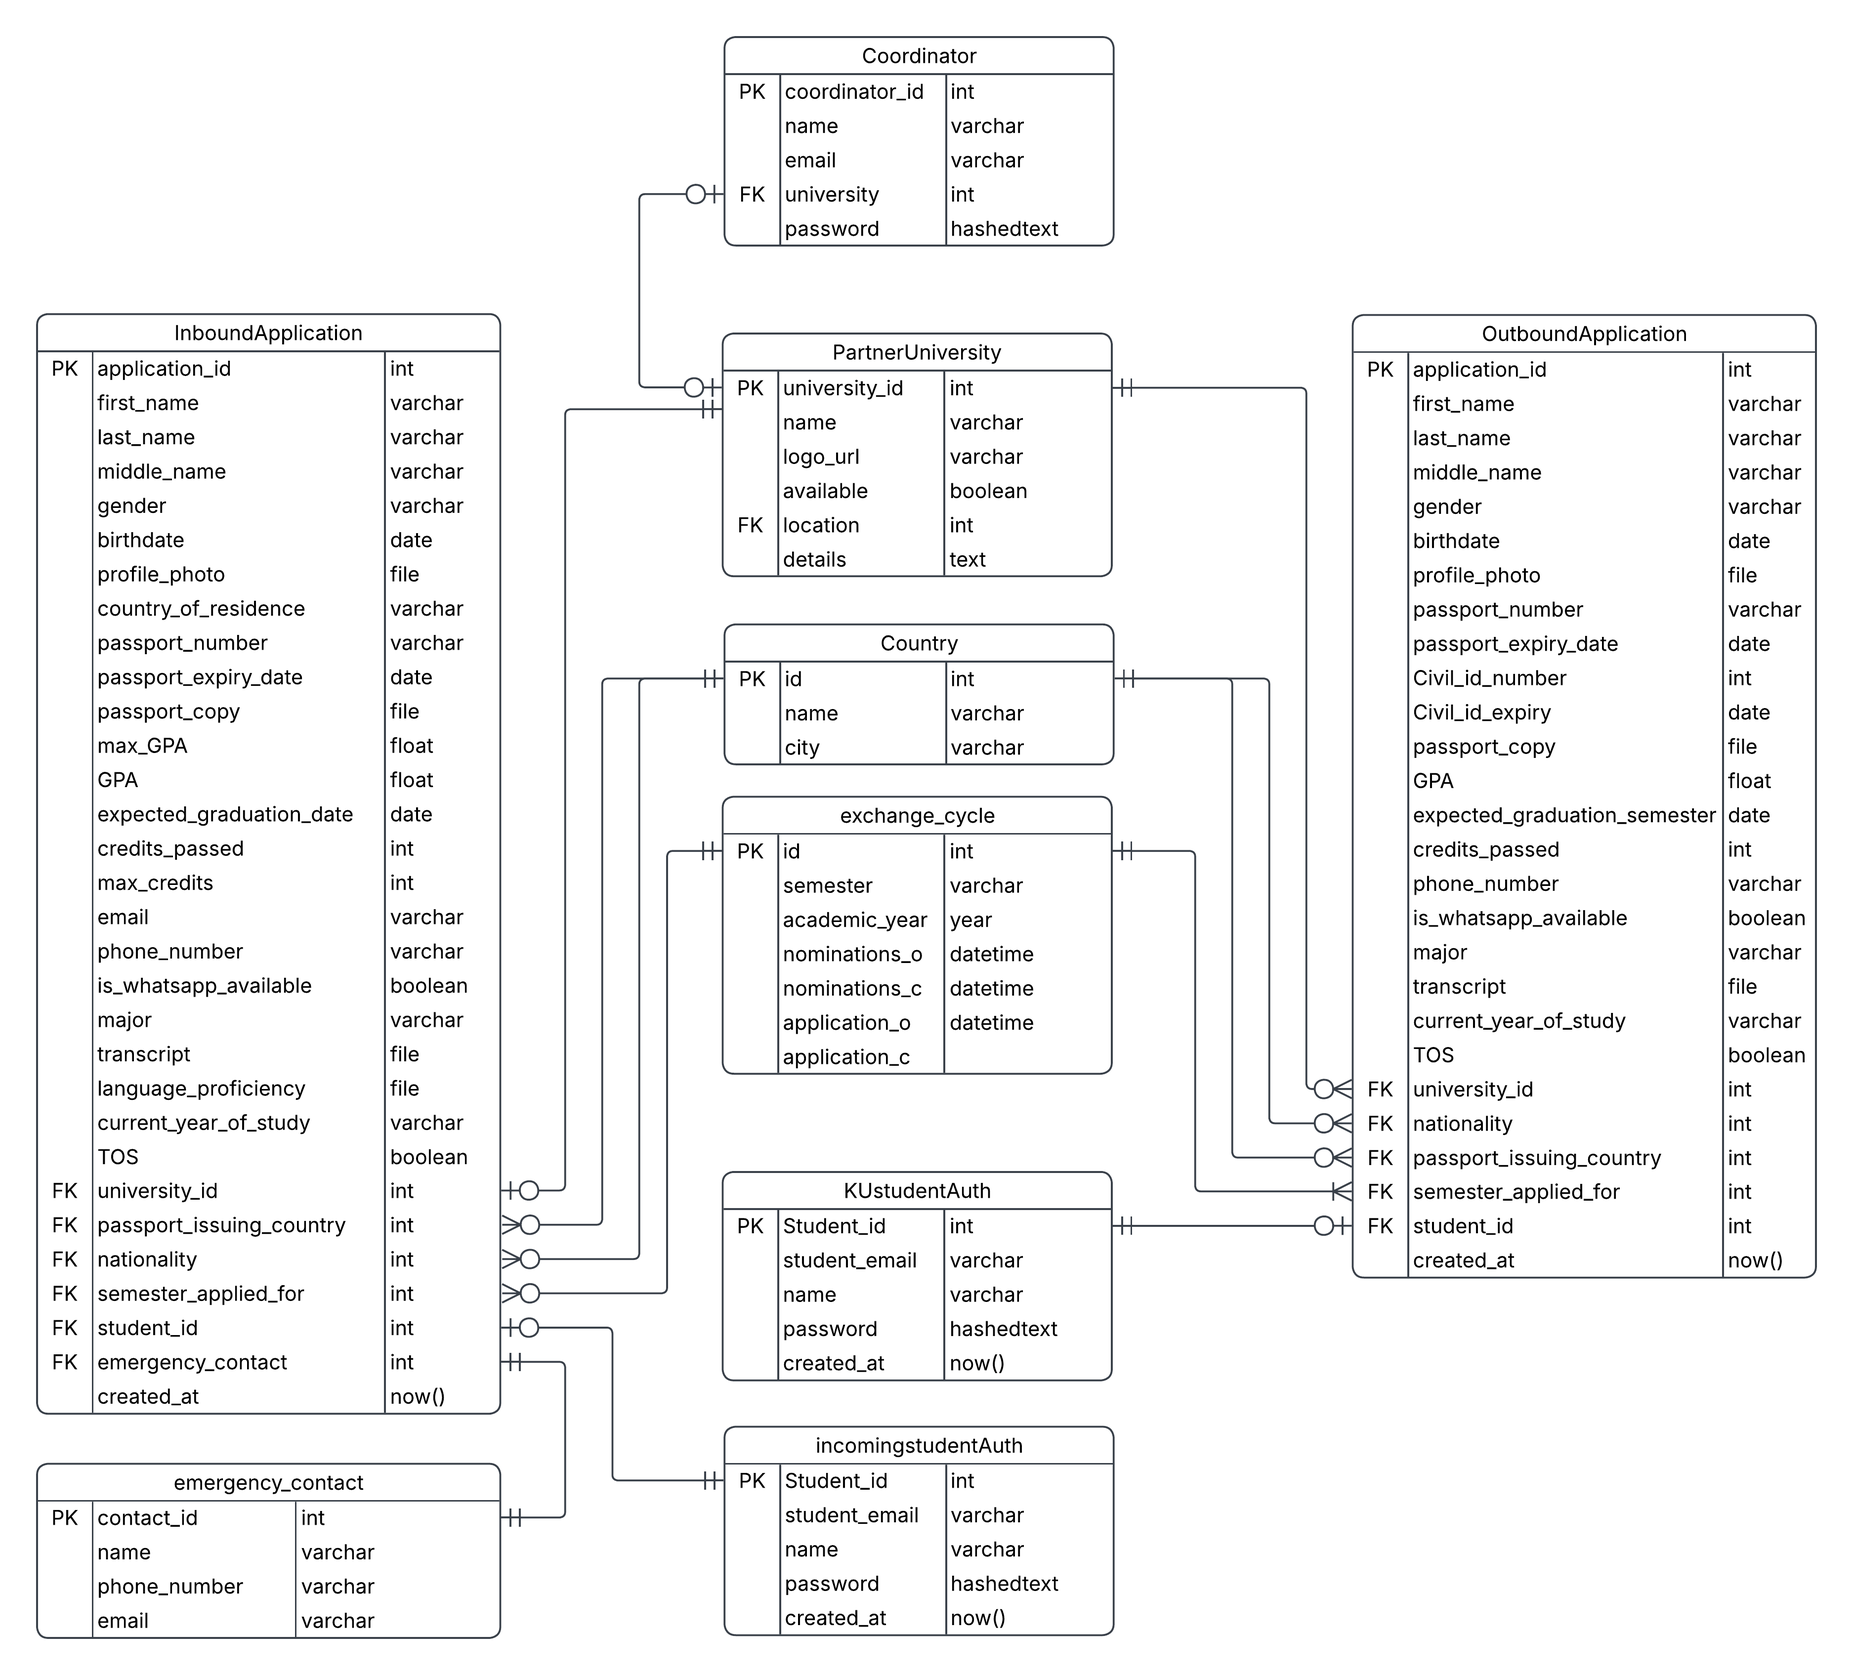
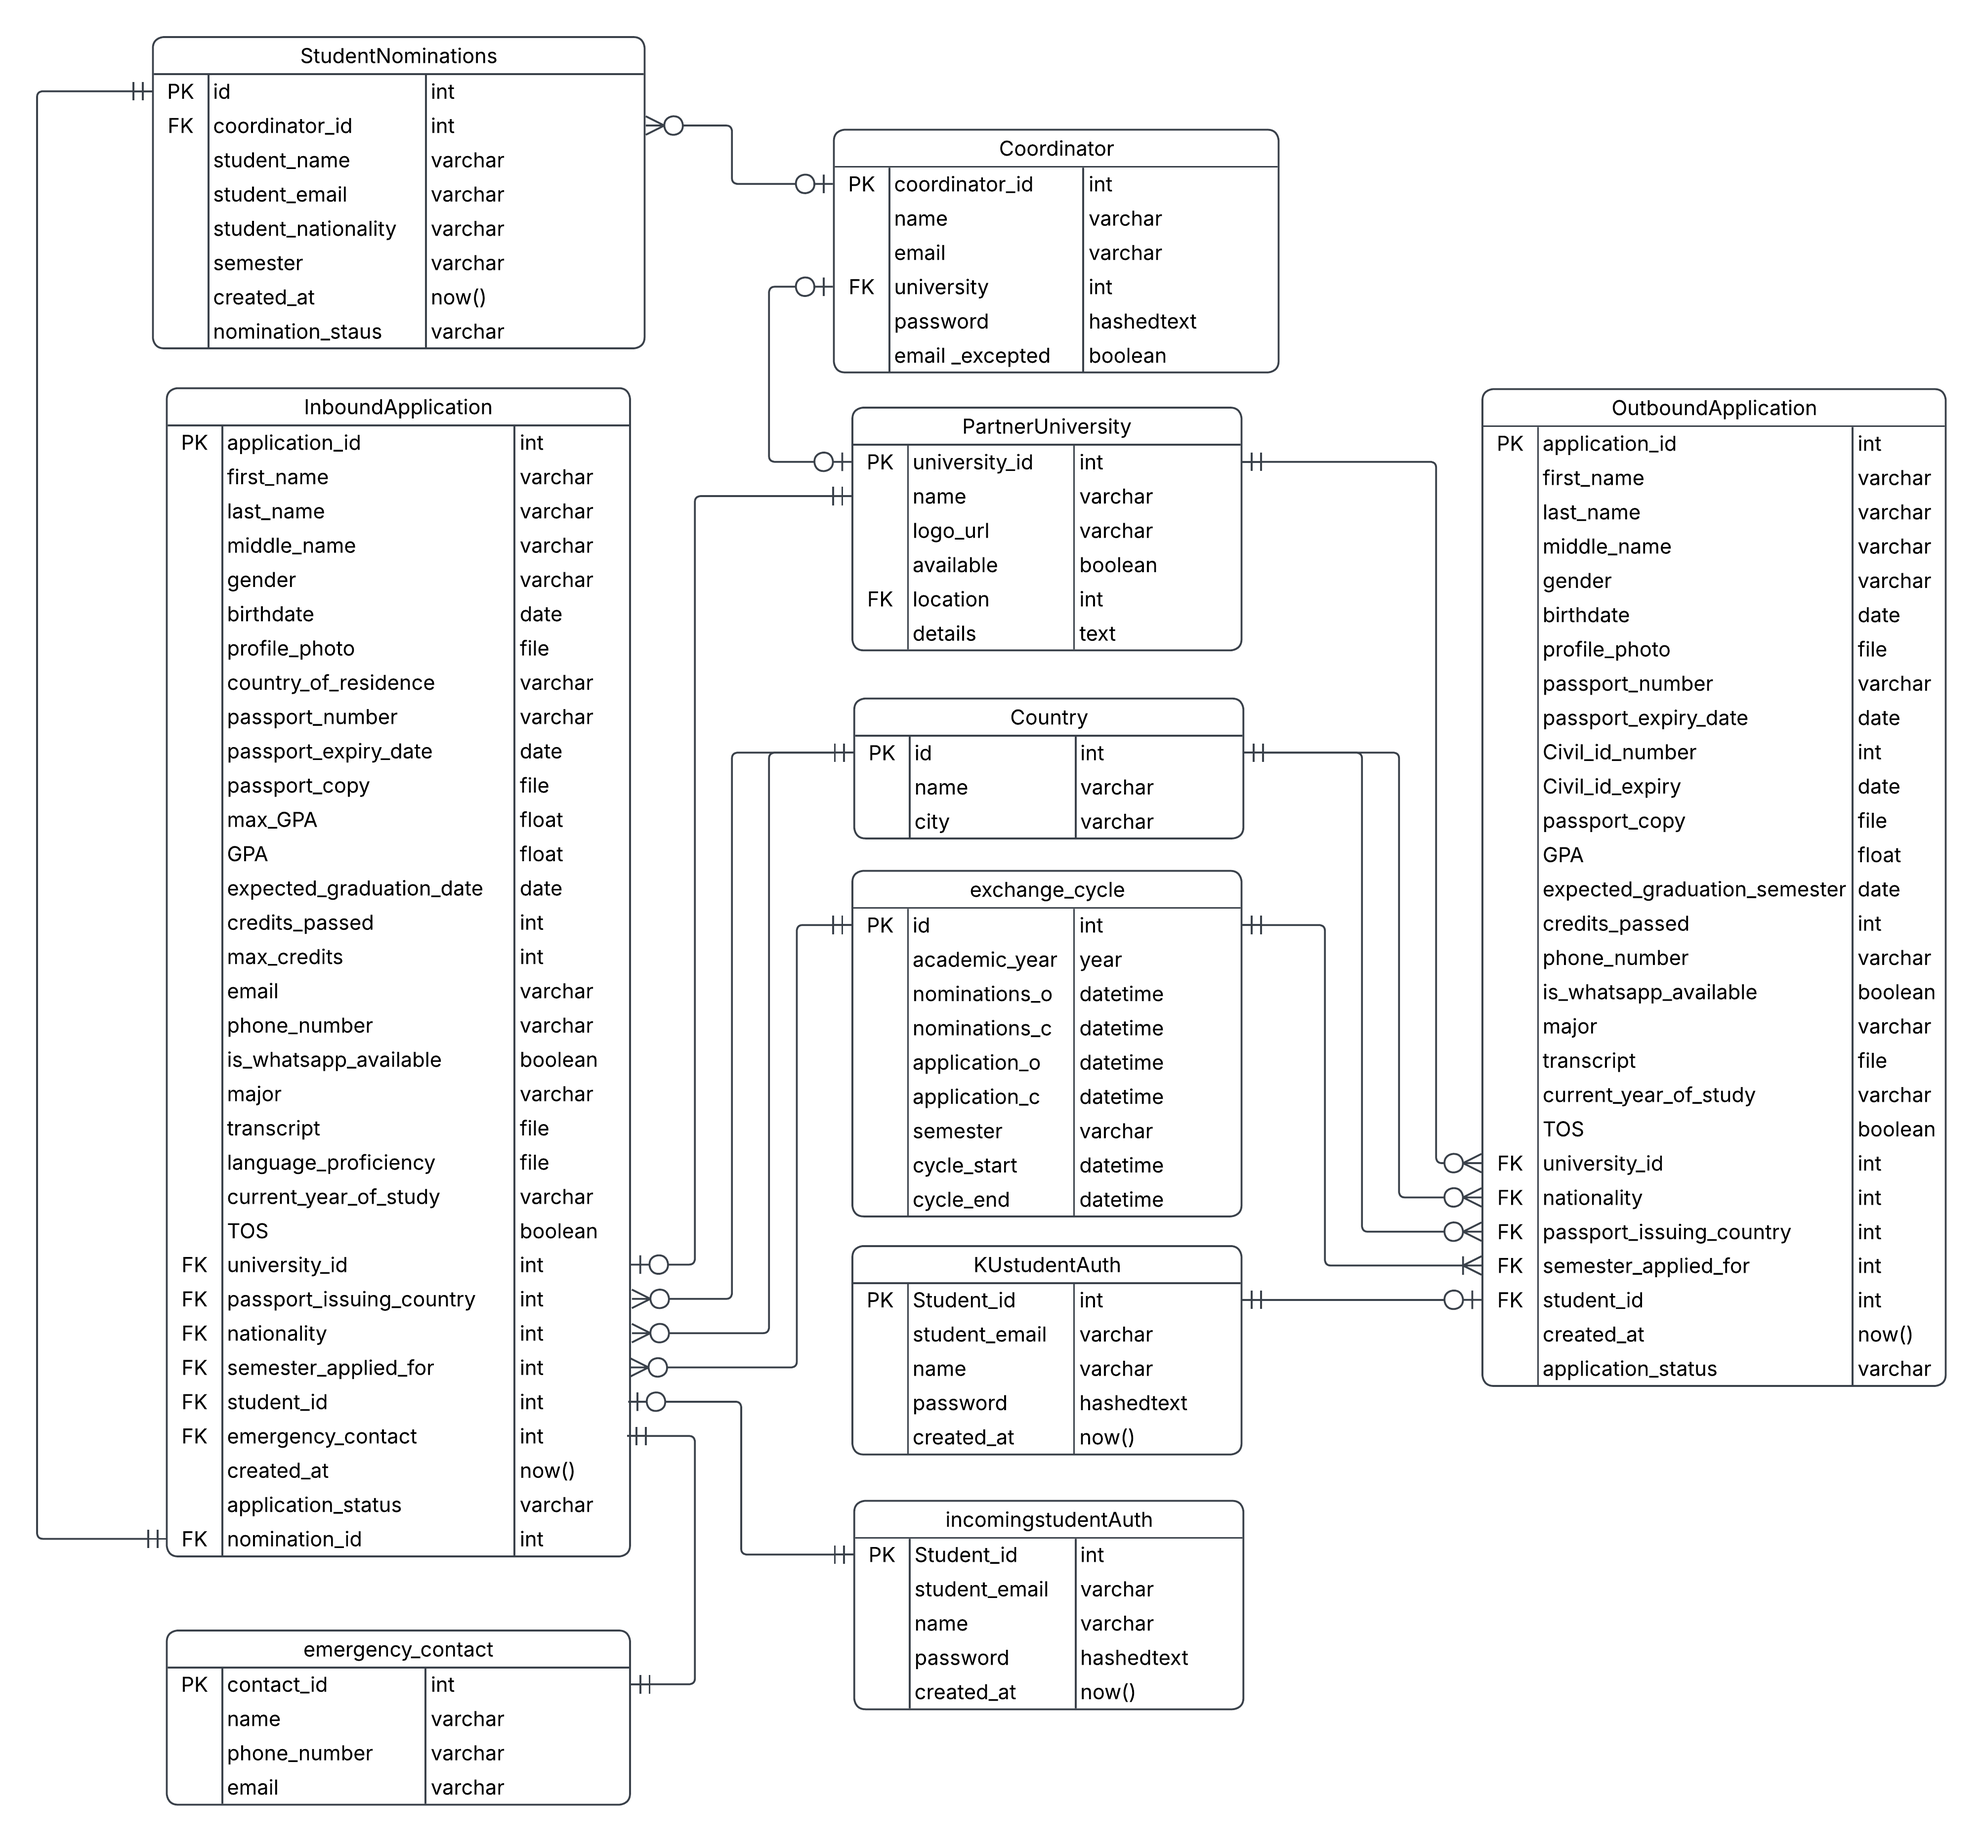
added ERD and Schema and sql

diff --git a/docs/schema.md b/docs/schema.md
@@ -1,0 +1,54 @@
+# Student Exchange Portal — Semantic Business Layer
+
+*Reference ERD Diagram:* `docs/assets/student-exchange-erd.png`
+
+---
+
+### 1. What a Row Means (Entity Semantics)
+
+* **`Country`**: A recognized sovereign state and regional hub available for student nationality, passport issuance, or university hosting.
+* **`exchange_cycle`**: A designated academic term and calendar year defining the official windows for nominations and student submissions.
+* **`KUStudentAuth`**: An enrolled Kuwait University student profile bound to their institutional credentials for study-abroad eligibility.
+* **`incomingstudentAuth`**: An international applicant profile authorized to log in and prepare an inbound exchange dossier.
+* **`emergency_contact`**: An authorized personal safety contact on record to assist an incoming international student in critical events.
+* **`PartnerUniversity`**: An overseas higher-education institution holding an active bilateral exchange agreement with the college.
+* **`Coordinator`**: An accredited partner university representative authorized to nominate exchange candidates and manage partner workflows.
+* **`studentnominations`**: A formal endorsement submitted by a partner coordinator sponsoring a foreign student for a designated cycle.
+* **`InboundApplication`**: A complete exchange admissions dossier submitted by an incoming international applicant.
+* **`OutboundApplication`**: A study-abroad placement application submitted by a Kuwait University student.
+
+---
+
+### 2. Entity Relationships (Business Rules & Constraints)
+
+* **`PartnerUniversity` -> `Country`**: Identifies the host nation where the partner institution operates (`ON DELETE SET NULL`).
+* **`Coordinator` -> `PartnerUniversity`**: Binds a partner coordinator to their home institution (`ON DELETE CASCADE`).
+* **`studentnominations` -> `Coordinator`**: Attributes each student nomination to the partner official who submitted it (`ON DELETE CASCADE`).
+* **`studentnominations` -> `exchange_cycle`**: Anchors a nomination to a specific intake semester and deadline calendar (`ON DELETE CASCADE`).
+* **`InboundApplication` -> `studentnominations`**: Validates that an incoming applicant holds an approved coordinator nomination (`FOREIGN KEY`).
+* **`InboundApplication` -> `incomingstudentAuth`**: Ties an inbound dossier to the authenticated international applicant account (`ON DELETE CASCADE`).
+* **`InboundApplication` -> `PartnerUniversity`**: Designates the sending home institution of the international applicant (`ON DELETE SET NULL`).
+* **`InboundApplication` -> `exchange_cycle`**: Places the inbound dossier into an active intake calendar and review period (`ON DELETE SET NULL`).
+* **`InboundApplication` -> `Country` (Nationality)**: Records the applicant’s legal citizenship for host-institution clearance (`ON DELETE SET NULL`).
+* **`InboundApplication` -> `Country` (Passport Issuing)**: Identifies the government authority that issued the travel passport (`ON DELETE SET NULL`).
+* **`InboundApplication` -> `emergency_contact`**: Connects the international applicant to a designated emergency contact (`ON DELETE SET NULL`).
+* **`OutboundApplication` -> `KUStudentAuth`**: Ties a study-abroad dossier to the authenticated Kuwait University applicant account (`ON DELETE CASCADE`).
+* **`OutboundApplication` -> `PartnerUniversity`**: Specifies the overseas host institution requested by the Kuwait University applicant (`ON DELETE SET NULL`).
+* **`OutboundApplication` -> `exchange_cycle`**: Links the outbound dossier to the target exchange semester and evaluation window (`ON DELETE SET NULL`).
+* **`OutboundApplication` -> `Country` (Nationality)**: Records the student's legal citizenship for foreign clearance and visa processing (`ON DELETE SET NULL`).
+* **`OutboundApplication` -> `Country` (Passport Issuing)**: Identifies the issuing authority of the student's travel passport (`ON DELETE SET NULL`).
+* **`KUStudentAuth` -> `auth.users`**: Connects the institutional student record to Supabase authentication identity (`ON DELETE CASCADE`).
+* **`incomingstudentAuth` -> `auth.users`**: Connects the international applicant record to Supabase authentication identity (`ON DELETE CASCADE`).
+* **`Coordinator` -> `auth.users`**: Connects the partner coordinator record to Supabase authentication identity (`ON DELETE CASCADE`).
+
+---
+
+### 3. Row-Level Security Policies (Who, What & Why)
+
+* **`Country` / `"anyone can read"` (SELECT)**: Both anonymous and authenticated users may read country records so forms and dropdowns populate without authentication barriers.
+* **`Coordinator` / `"signup"` (INSERT)**: Authenticated partner coordinators may create their own profile only when `user_id` matches `auth.uid()` to prevent profile spoofing.
+* **`Coordinator` / `"Enable delete for coordinators"` (DELETE)**: Authenticated partner coordinators may delete only their own record to support self-service account removal without exposing peer data.
+* **`incomingstudentauth` / `"Signup"` (INSERT)**: Authenticated international applicants may create their profile only when `user_id` matches `auth.uid()` to prevent impersonation.
+* **`incomingstudentauth` / `"Enable delete for incoming students"` (DELETE)**: Authenticated international applicants may delete only their personal record during self-service account termination.
+* **`kustudentauth` / `"Signup"` (INSERT)**: Authenticated Kuwait University students may create their profile only when `user_id` matches `auth.uid()` to enforce identity integrity.
+* **`kustudentauth` / `"Enable delete for Ku students"` (DELETE)**: Authenticated Kuwait University students may delete only their personal record during self-service account removal.
